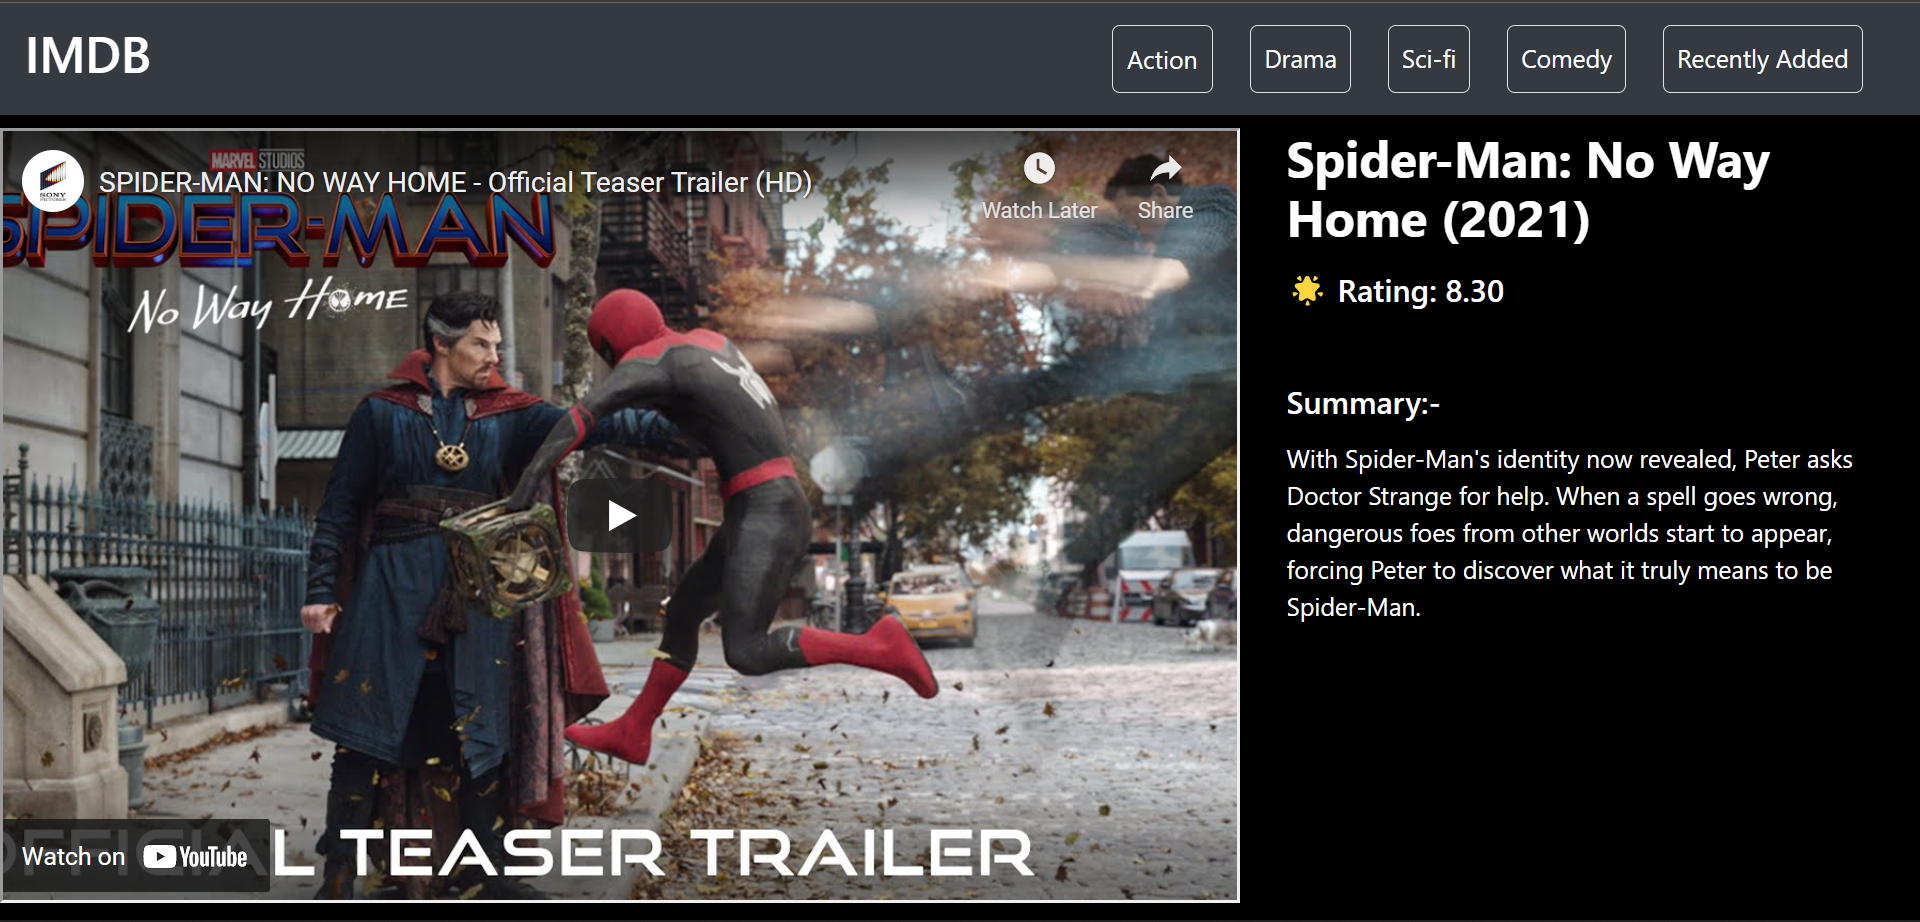
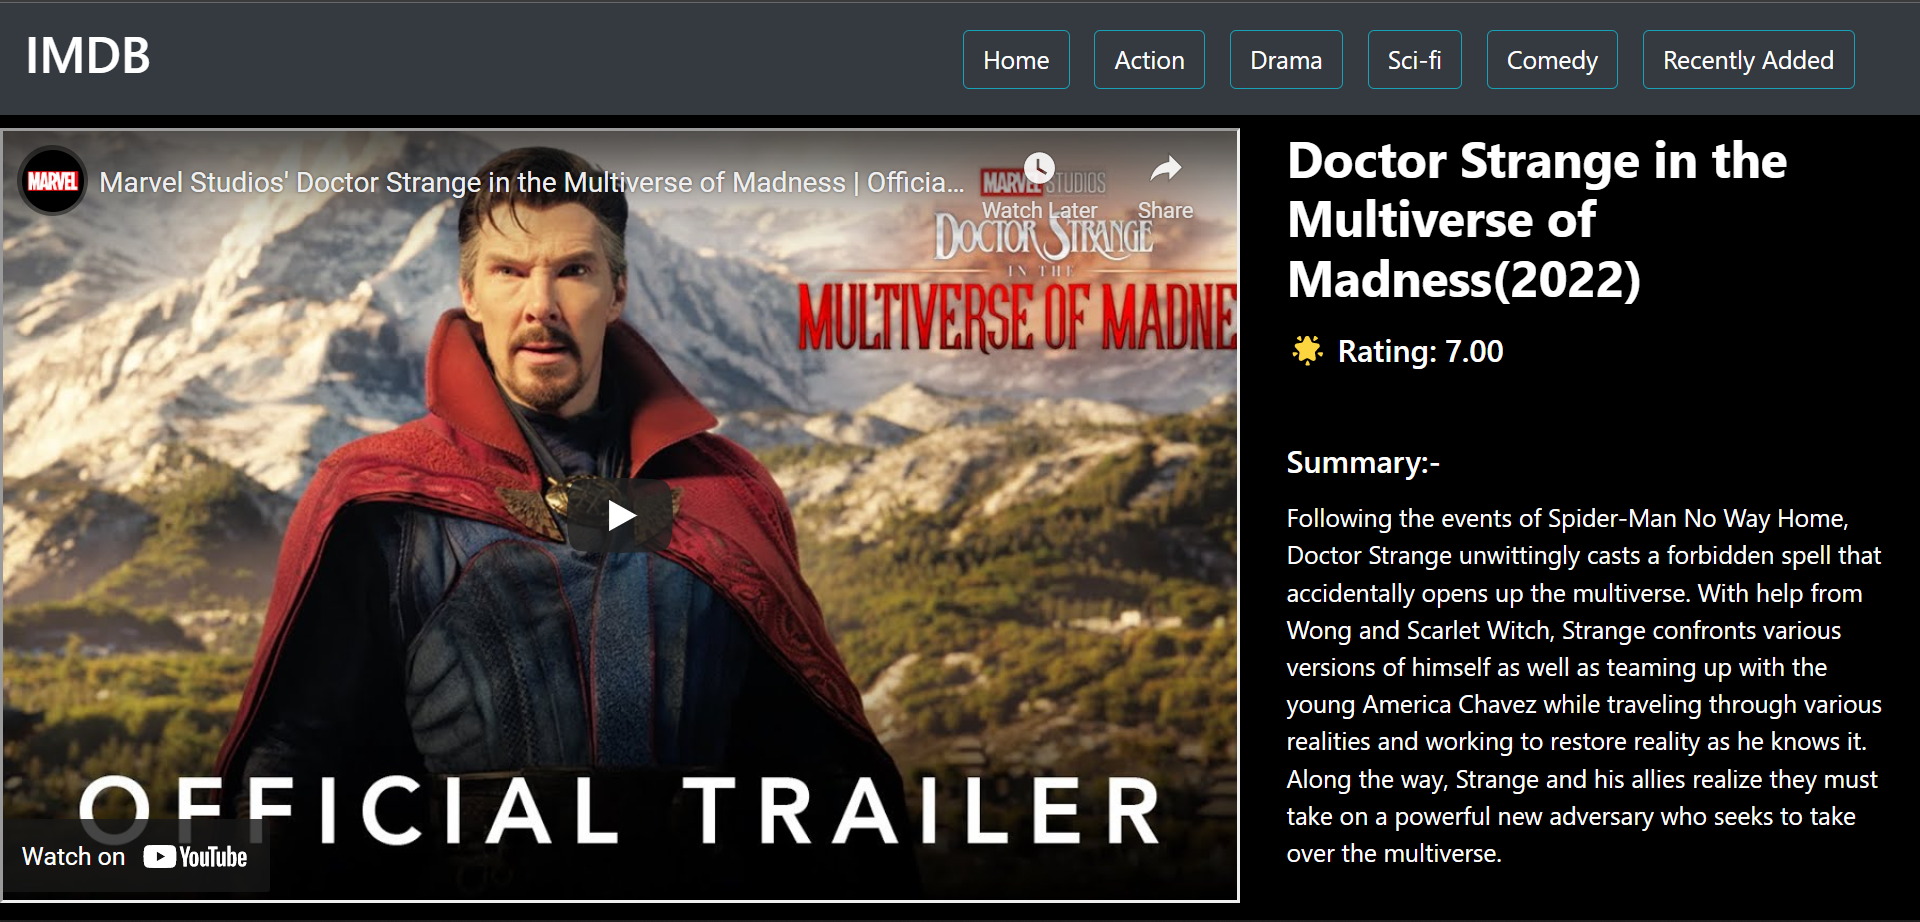
styling

diff --git a/IMDB_CLONE/movie/templates/movie/movie_list.html b/IMDB_CLONE/movie/templates/movie/movie_list.html
@@ -21,30 +21,22 @@
         <div class="collapse navbar-collapse" id="navbarTogglerDemo01">
             <a class="navbar-brand text-white" href="{%url 'MovieList'%}"><b><h2>IMDB</h2></b></a>
             
-            <ul class="navbar-nav mt-2 mt-lg-0 " style="margin-left: 580px;">
-                <li class="nav-item active border ml-lg-4 " style="border-radius: 5px;">
-                    <a class="nav-link text-white" href="{%url 'ActionGenre'%}">Action </a>
-                </li>
-                <li class="nav-item  border ml-4" style="border-radius: 5px;">
-                    <a class="nav-link text-white" href="{%url 'DramaGenre'%}">Drama</a>
-                </li>
-                <li class="nav-item  border ml-4" style="border-radius: 5px;">
-                    <a class="nav-link text-white" href="{%url 'ScifiGenre'%}">Sci-fi</a>
-                </li>
-                <li class="nav-item  border ml-4" style="border-radius: 5px;">
-                    <a class="nav-link text-white" href="{%url 'ComedyGenre'%}">Comedy</a>
-                </li>
-                <li class="nav-item  border ml-4" style="border-radius: 5px;">
-                    <a class="nav-link text-white" href="{%url 'RecentMovie'%}">Recently Added</a>
-                </li>
-            
+            <form class="form-inline my-2 my-lg-0" method="POST" style="margin-left: 252px;">
+                {%csrf_token%}
+                <input class="form-control mr-sm-2" name="search" type="search" placeholder="Search" aria-label="Search">
+                <button class="btn btn-outline-success my-2 my-sm-0" type="submit">Search</button>
+            </form>
+
+
+            <ul class="navbar-nav mt-2 mt-lg-0 mr-auto" style="margin-left: 40px;">
+                <a class="text-white btn btn-outline-info h-25 m-2" href="{%url 'ActionGenre'%}">Action </a>
+                <a class="text-white btn btn-outline-info h-25 m-2" href="{%url 'DramaGenre'%}">Drama</a>
+                <a class="text-white btn btn-outline-info h-25 m-2" href="{%url 'ScifiGenre'%}">Sci-fi</a>
+                <a class="text-white btn btn-outline-info h-25 m-2" href="{%url 'ComedyGenre'%}">Comedy</a>
+                <a class="text-white btn btn-outline-info h-25 m-2" href="{%url 'RecentMovie'%}">Recently Added</a>
             </ul>
             
-            <!-- <form class="form-inline my-2 my-lg-0" method="POST">
-                {%csrf_token%}
-                <input class="form-control mr-sm-2" type="search" placeholder="Search" aria-label="Search">
-                <button class="btn btn-outline-success my-2 my-sm-0" type="submit">Search</button>
-            </form> -->
+            
         
         </div>
     </nav>

diff --git a/IMDB_CLONE/movie/templates/movie/movie_genre.html b/IMDB_CLONE/movie/templates/movie/movie_genre.html
@@ -18,23 +18,13 @@
         <div class="collapse navbar-collapse" id="navbarTogglerDemo01">
             <a class="navbar-brand text-white" href="{%url 'MovieList'%}"><b><h2>IMDB</h2></b></a>
             
-            <ul class="navbar-nav mt-2 mt-lg-0" style="margin-left: 580px;">
-                <li class="nav-item active border ml-lg-4 " style="border-radius: 5px;">
-                    <a class="nav-link text-white" href="{%url 'ActionGenre'%}">Action </a>
-                </li>
-                <li class="nav-item  border ml-4" style="border-radius: 5px;">
-                    <a class="nav-link text-white" href="{%url 'DramaGenre'%}">Drama</a>
-                </li>
-                <li class="nav-item  border ml-4" style="border-radius: 5px;">
-                    <a class="nav-link text-white" href="{%url 'ScifiGenre'%}">Sci-fi</a>
-                </li>
-                <li class="nav-item  border ml-4" style="border-radius: 5px;">
-                    <a class="nav-link text-white" href="{%url 'ComedyGenre'%}">Comedy</a>
-                </li>
-                <li class="nav-item  border ml-4" style="border-radius: 5px;">
-                    <a class="nav-link text-white" href="{%url 'RecentMovie'%}">Recently Added</a>
-                </li>
-            
+            <ul class="navbar-nav mt-2 mt-lg-0" style="margin-left: 500px;">
+                <a class="text-white btn btn-outline-info h-25 m-2" href="{%url 'MovieList'%}" style="margin-left: 33px;">Home</a>
+                <a class="text-white btn btn-outline-info h-25 m-2" href="{%url 'ActionGenre'%}">Action </a>
+                <a class="text-white btn btn-outline-info h-25 m-2" href="{%url 'DramaGenre'%}">Drama</a>
+                <a class="text-white btn btn-outline-info h-25 m-2" href="{%url 'ScifiGenre'%}">Sci-fi</a>
+                <a class="text-white btn btn-outline-info h-25 m-2" href="{%url 'ComedyGenre'%}">Comedy</a>
+                <a class="text-white btn btn-outline-info h-25 m-2" href="{%url 'RecentMovie'%}">Recently Added</a>
             </ul>
             
             <!-- <form class="form-inline my-2 my-lg-0" method="POST">
@@ -47,10 +37,9 @@
     </nav>
 
 
-
         <div class="row">
             {%for movie in movies%}
-                <div class="card ml-3 m-1 w-25 m-5">
+                <div class="card w-25 m-5 mt-1">
                     
                     <a href="{%url 'MovieDetail' movie.id%}">
                         <img class="card-img-top img-fluid" src="{{movie.image.url}}" alt="Card image cap" style="height:70vh;">

diff --git a/IMDB_CLONE/movie/templates/movie/movie_detail.html b/IMDB_CLONE/movie/templates/movie/movie_detail.html
@@ -18,23 +18,13 @@
         <div class="collapse navbar-collapse" id="navbarTogglerDemo01">
             <a class="navbar-brand text-white" href="{%url 'MovieList'%}"><b><h2>IMDB</h2></b></a>
             
-            <ul class="navbar-nav mt-2 mt-lg-0" style="margin-left: 580px;">
-                <li class="nav-item active border ml-lg-4" style="border-radius: 5px;">
-                    <a class="nav-link text-white btn" href="{%url 'ActionGenre'%}">Action </a>
-                </li>
-                <li class="nav-item  border ml-4" style="border-radius: 5px;">
-                    <a class="nav-link text-white" href="{%url 'DramaGenre'%}">Drama</a>
-                </li>
-                <li class="nav-item  border ml-4" style="border-radius: 5px;">
-                    <a class="nav-link text-white" href="{%url 'ScifiGenre'%}">Sci-fi</a>
-                </li>
-                <li class="nav-item  border ml-4" style="border-radius: 5px;">
-                    <a class="nav-link text-white" href="{%url 'ComedyGenre'%}">Comedy</a>
-                </li>
-                <li class="nav-item  border ml-4" style="border-radius: 5px;">
-                    <a class="nav-link text-white" href="{%url 'RecentMovie'%}">Recently Added</a>
-                </li>
-            
+            <ul class="navbar-nav mt-2 mt-lg-0" style="margin-left: 500px;">
+                <a class="text-white btn btn-outline-info h-25 m-2" href="{%url 'MovieList'%}" style="margin-left: 33px;">Home</a>
+                <a class="text-white btn btn-outline-info h-25 m-2" href="{%url 'ActionGenre'%}">Action </a>
+                <a class="text-white btn btn-outline-info h-25 m-2" href="{%url 'DramaGenre'%}">Drama</a>
+                <a class="text-white btn btn-outline-info h-25 m-2" href="{%url 'ScifiGenre'%}">Sci-fi</a>
+                <a class="text-white btn btn-outline-info h-25 m-2" href="{%url 'ComedyGenre'%}">Comedy</a>
+                <a class="text-white btn btn-outline-info h-25 m-2" href="{%url 'RecentMovie'%}">Recently Added</a>
             </ul>
             
             <!-- <form class="form-inline my-2 my-lg-0" method="POST">

diff --git a/IMDB_CLONE/movie/views.py b/IMDB_CLONE/movie/views.py
@@ -1,5 +1,6 @@
-from django.shortcuts import render
-from django.views.generic import ListView, DetailView
+from django.shortcuts import redirect, render, HttpResponseRedirect
+from django.views.generic import ListView, DetailView, TemplateView
+
 
 from .models import Movie
 # Home Page
@@ -10,6 +11,11 @@ class MovieList(ListView):
 
     def get_queryset(self):
         return Movie.objects.all().order_by('?')
+    
+    def post(self, request, *args, **kwargs):
+        search = request.POST.get('search')
+        query = self.get_queryset().filter(title__icontains=search)
+        return Search(request,movie=query)
 
 # Action Movies
 class ActionGenre(ListView):
@@ -60,3 +66,8 @@ class RecentlyMovies(ListView):
     def get_queryset(self):
         return Movie.objects.all().order_by('-id')[:9]
 
+def Search(request,movie):
+    return render(request,'movie/movie_list.html',{'movies':movie})
+
+
+        

diff --git a/IMDB_CLONE/movie/urls.py b/IMDB_CLONE/movie/urls.py
@@ -10,4 +10,5 @@ urlpatterns = [
     path('drama/',views.DramaGenre.as_view(), name="DramaGenre"),
     path('<pk>/',views.MovieDetail.as_view(),name="MovieDetail"),
     path('new/recent/',views.RecentlyMovies.as_view(),name="RecentMovie"),
+    path('search/',views.Search,name="Search"),
 ]
